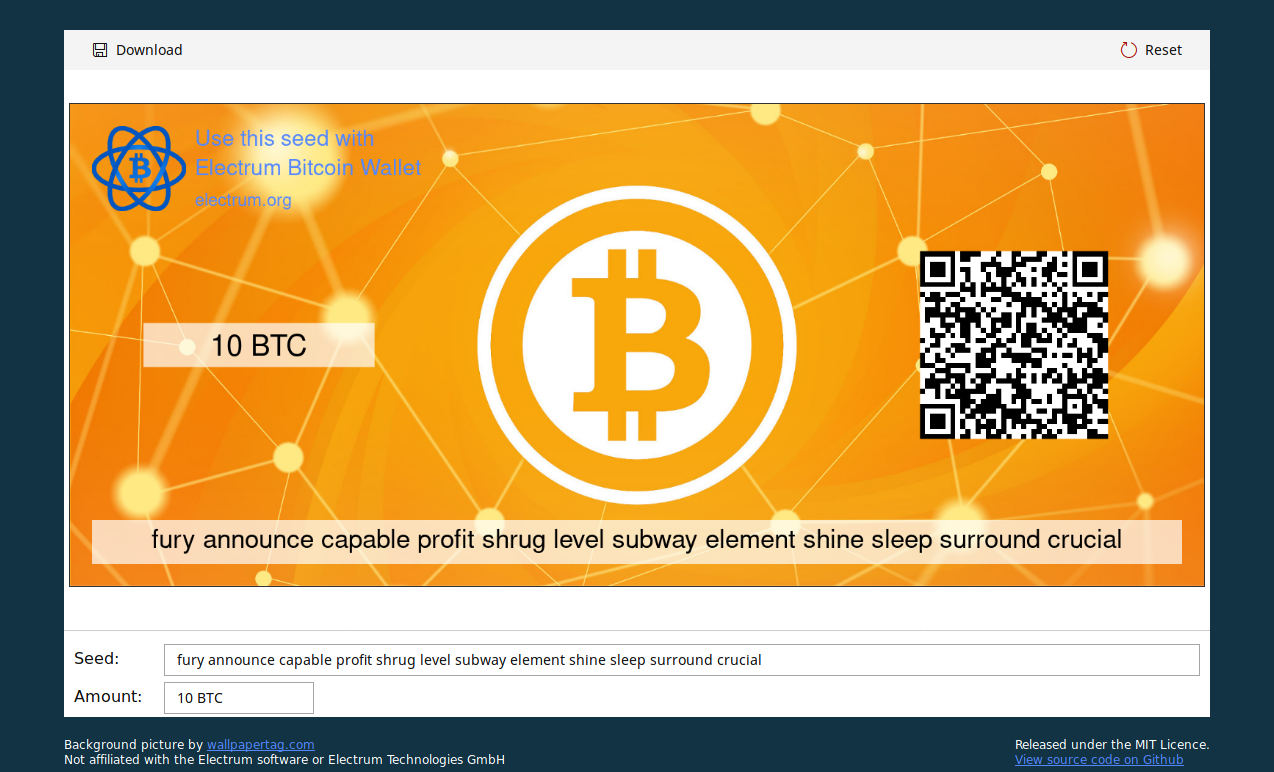
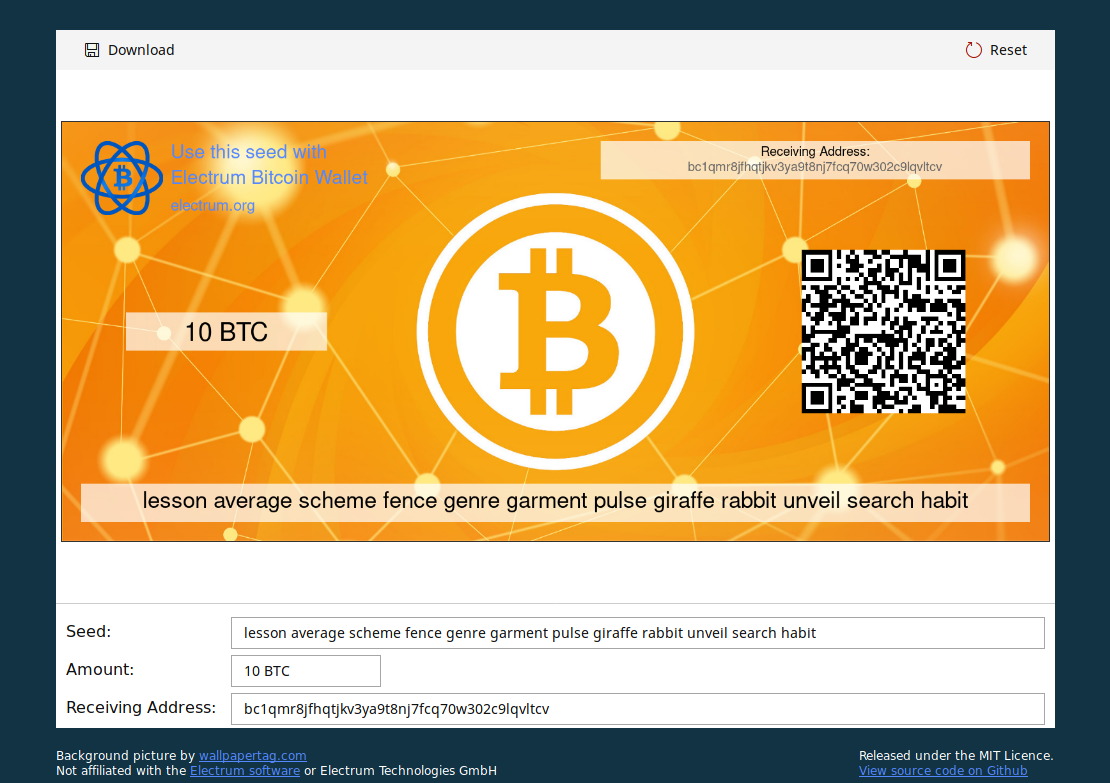
Added receiving address

diff --git a/src/components/Preview/Preview.js b/src/components/Preview/Preview.js
@@ -93,6 +93,27 @@ class Preview extends PureComponent {
         this._context.fillText(this.props.amount, offset + (width / 2), posY + 15);
     }
 
+    drawAddress = () => {
+        const offset = 30;
+        const width = (this.canvas.width / 2.3);
+        const height = 60;
+
+        this._context.fillStyle = 'rgba(255,255,255,0.7)';
+        this._context.fillRect(this.canvas.width - offset - width, offset, width, height);
+
+        this._context.textAlign = 'center';
+
+        this._context.fillStyle = 'black';
+        this._context.font = '20px Tahoma, "Nimbus Sans"';
+        this._context.textBaseline = 'top';
+        this._context.fillText('Receiving Address:', (this.canvas.width - offset - width) + (width / 2), offset + 8);
+
+        this._context.fillStyle = '#666';
+        this._context.font = '20px Tahoma, "Nimbus Sans"';
+        this._context.textBaseline = 'bottom';
+        this._context.fillText(this.props.address, (this.canvas.width - offset - width) + (width / 2), offset + height - 8);
+    }
+
     drawQRCode = () => {
         const xml = new XMLSerializer().serializeToString(this._qrSvg);
 
@@ -114,6 +135,7 @@ class Preview extends PureComponent {
         this._context.drawImage(this._img, 0, 0, this.canvas.width, this.canvas.width * (this._img.height / this._img.width))
 
         this.drawElectrumLogo();
+        this.drawAddress();
         this.drawAmount();
         this.drawSeed();
         this.drawQRCode();
@@ -122,7 +144,7 @@ class Preview extends PureComponent {
     }
 
     componentWillReceiveProps(nextProps) {
-        this.redraw = (this.props.seed !== nextProps.seed || this.props.amount !== nextProps.amount);
+        this.redraw = (this.props.seed !== nextProps.seed || this.props.amount !== nextProps.amount || this.props.address !== nextProps.address);
     }
 
     componentDidUpdate() {
@@ -143,6 +165,7 @@ class Preview extends PureComponent {
 const mapStateToProps = state => ({
     seed: wallet.selectors.getSeed(state),
     amount: wallet.selectors.getAmount(state),
+    address: wallet.selectors.getAddress(state),
 });
 
 export default connect(mapStateToProps)(Preview);

diff --git a/src/components/Controls/Controls.js b/src/components/Controls/Controls.js
@@ -19,7 +19,13 @@ class Controls extends Component {
                 <div className="controls-row">
                     <Label>Amount:</Label>
                     <div className="controls-amount">
-                        <TextField placeholder='enter your electrum seed' value={this.props.amount} onChanged={value => this.props.setAmount(value)} />
+                        <TextField placeholder='enter a BTC value' value={this.props.amount} onChanged={value => this.props.setAmount(value)} />
+                    </div>
+                </div>
+                <div className="controls-row">
+                    <Label>Receiving Address:</Label>
+                    <div className="controls-grow">
+                        <TextField placeholder='enter an address to send BTC to the wallet' value={this.props.address} onChanged={value => this.props.setAddress(value)} />
                     </div>
                 </div>
             </div>
@@ -30,11 +36,13 @@ class Controls extends Component {
 const mapStateToProps = state => ({
     seed: wallet.selectors.getSeed(state),
     amount: wallet.selectors.getAmount(state),
+    address: wallet.selectors.getAddress(state),
 });
 
 const mapDispatchToProps = dispatch => ({
     setSeed: (text) => dispatch(wallet.actions.setSeed(text)),
     setAmount: (amount) => dispatch(wallet.actions.setAmount(amount)),
+    setAddress: (address) => dispatch(wallet.actions.setAddress(address)),
 });
 
 export default connect(mapStateToProps, mapDispatchToProps)(Controls);

diff --git a/src/state/wallet/reducer.js b/src/state/wallet/reducer.js
@@ -3,6 +3,7 @@ import * as t from './actionTypes';
 const initialState = {
     seed: 'enter your electrum wallet seed here',
     amount: '0.01 BTC',
+    address: 'enter your receiving address here',
 }
 
 export default function reducer(state = initialState, action) {
@@ -15,6 +16,9 @@ export default function reducer(state = initialState, action) {
 
         case t.SET_AMOUNT:
             return { ...state, amount: action.payload };
+
+        case t.SET_ADDRESS:
+            return { ...state, address: action.payload };
 
         case t.RESET:
             return initialState;

diff --git a/src/state/wallet/actions.js b/src/state/wallet/actions.js
@@ -10,6 +10,11 @@ export const setAmount = (amount) => ({
     payload: amount.substring(0, 14),
 });
 
+export const setAddress = (address) => ({
+    type: t.SET_ADDRESS,
+    payload: address.substring(0, 64),
+});
+
 export const reset = () => ({
     type: t.RESET,
 });

diff --git a/src/App.js b/src/App.js
@@ -11,7 +11,7 @@ import { loadTheme } from 'office-ui-fabric-react';
 import { initializeIcons } from 'office-ui-fabric-react/lib/Icons'
 
 import fabricTheme from './fabricTheme';
-initializeIcons('/fonts/');
+initializeIcons('fonts/');
 
 loadTheme(fabricTheme.theme);
 

diff --git a/src/state/wallet/actionTypes.js b/src/state/wallet/actionTypes.js
@@ -1,3 +1,4 @@
 export const SET_SEED = 'wallet/SET_SEED';
 export const SET_AMOUNT = 'wallet/SET_AMOUNT';
+export const SET_ADDRESS = 'wallet/SET_ADDRESS';
 export const RESET = 'wallet/RESET';

diff --git a/src/state/wallet/selectors.js b/src/state/wallet/selectors.js
@@ -1,2 +1,3 @@
 export const getSeed = state => state.wallet.seed;
 export const getAmount = state => state.wallet.amount;
+export const getAddress = state => state.wallet.address;

diff --git a/src/components/Controls/Controls.css b/src/components/Controls/Controls.css
@@ -15,7 +15,7 @@
 
 .controls-row .ms-Label {
     padding-right: 10px;
-    min-width: 90px;
+    min-width: 165px;
 }
 
 .controls-grow {
